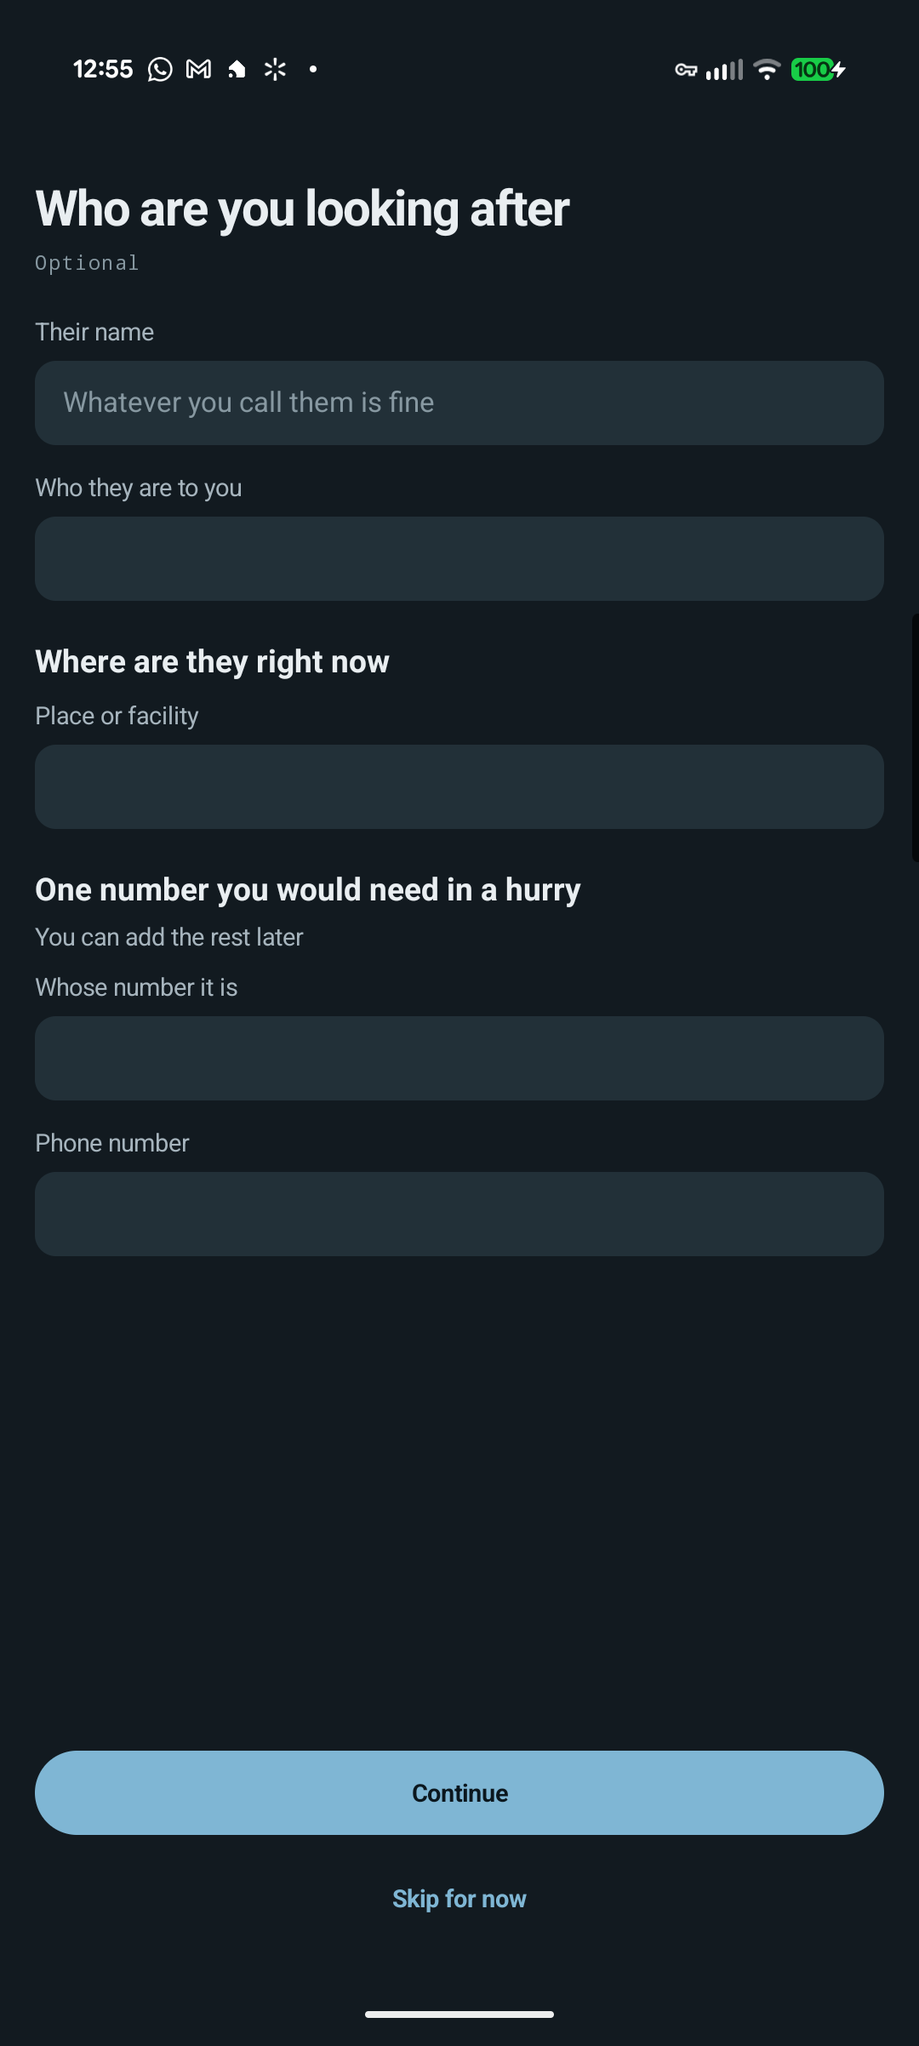
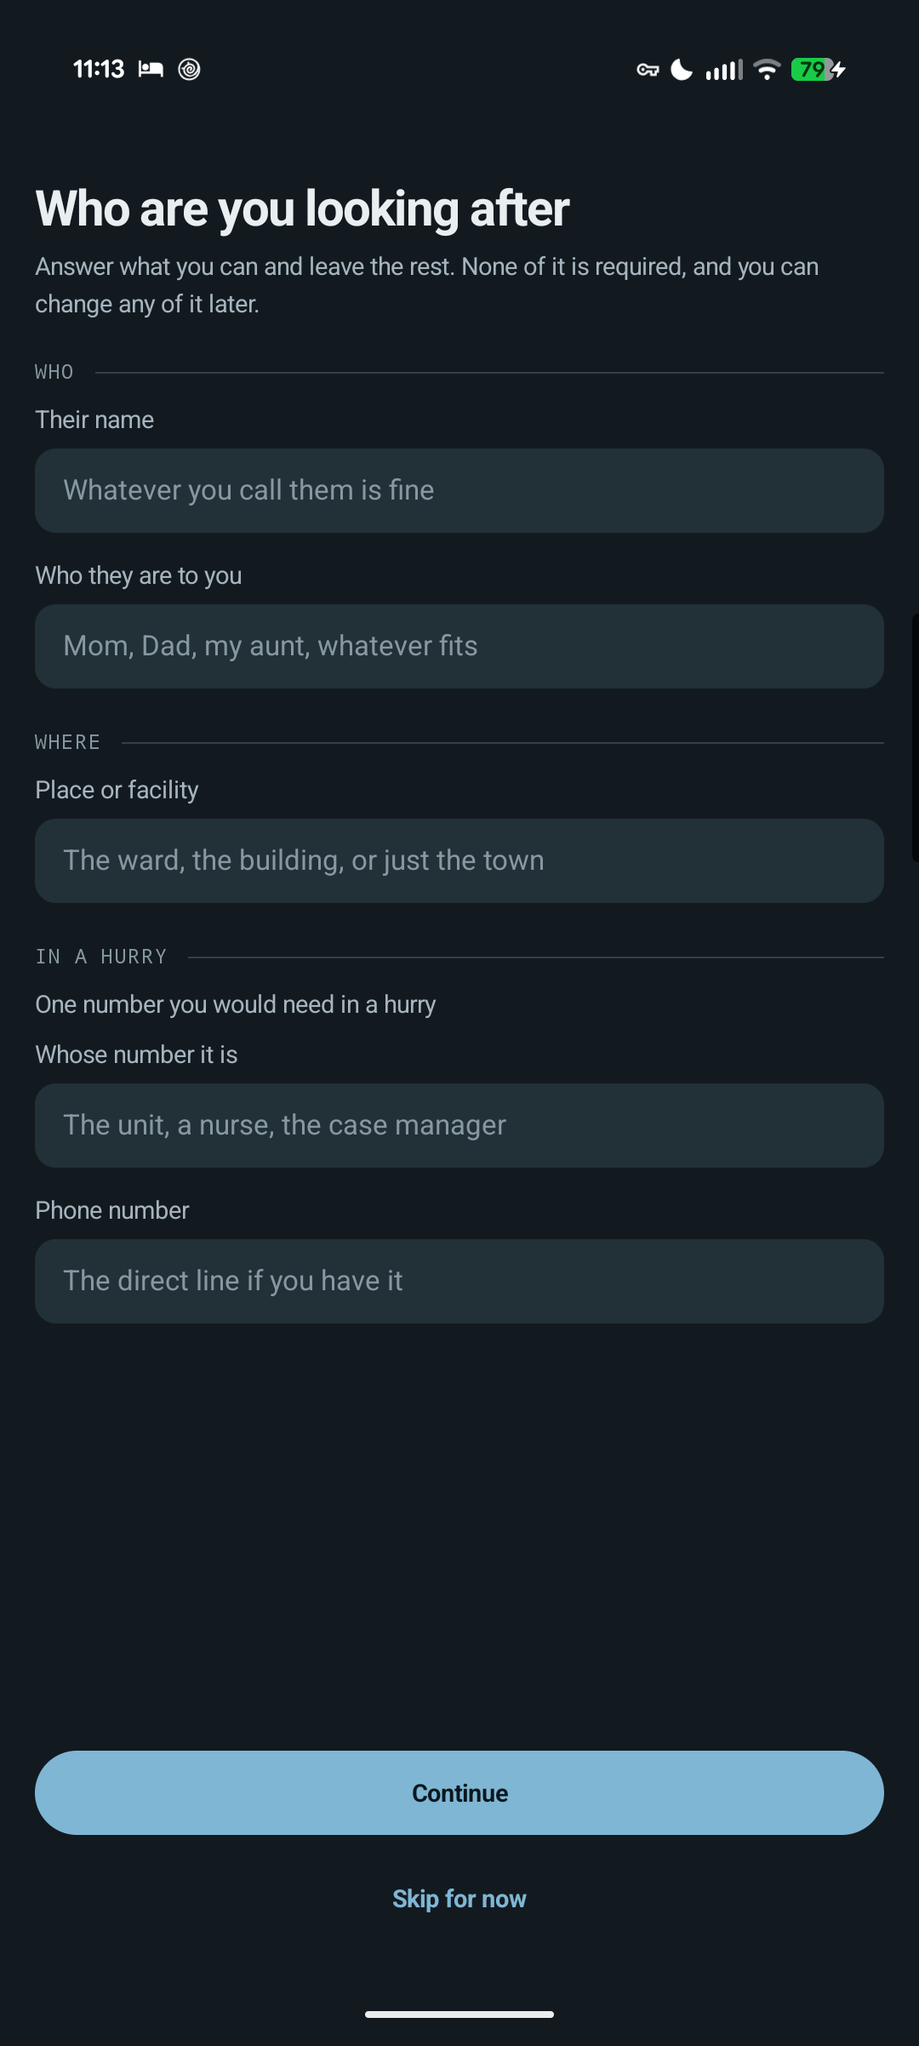
The setup screen stops reading as paperwork
Issue #37, the last of the four screens the owner named as visually thin.

Five labeled boxes in a row, four of them empty and unhinted, under a mono
"Optional". It worked, and it read as a form being administered, on the
screen that decides whether someone in a hallway keeps going.

The reassurance is now one warm sentence rather than one word: answer what
you can and leave the rest, none of it is required, and you can change any of
it later. That also carries what the label could not, which is that nothing
here is permanent.

Three groups under the same header the notebook and the picker use, so a
person arriving from the disclaimer meets one app rather than three.

Every field carries a hint that is guidance rather than a repeat of its
label. D37 records that this did more than the grouping did: "Who they are to
you" over an empty box is an interrogation, and "Mom, Dad, my aunt, whatever
fits" inside it is a person talking. Section 5.9 already required it and the
screen shipped without it, which is an argument for running the 10.6
checklist rather than remembering it.

Two defects found only with the keyboard up, D38: the Continue button sat on
top of the last field, and the field was sliced through the middle of its
box. Both looked correct at rest, in a screenshot, and in the code. Section
10.6 line 1 now names the keyboard state, because it is where the person
actually spends their time and nothing else here tests it.
[…]

diff --git a/android/app/src/main/kotlin/com/kamsiob/healthtrail/ui/screens/SetupScreen.kt b/android/app/src/main/kotlin/com/kamsiob/healthtrail/ui/screens/SetupScreen.kt
@@ -23,6 +23,7 @@ import androidx.compose.ui.text.input.ImeAction
 import androidx.compose.ui.text.input.KeyboardType
 import com.kamsiob.healthtrail.i18n.LocalStrings
 import com.kamsiob.healthtrail.ui.components.FilledButton
+import com.kamsiob.healthtrail.ui.components.GroupHeader
 import com.kamsiob.healthtrail.ui.components.HealthTrailTextField
 import com.kamsiob.healthtrail.ui.components.TextAction
 import com.kamsiob.healthtrail.ui.theme.HealthTrail
@@ -33,6 +34,7 @@ object SetupTags {
     const val NAME = "setup_name"
     const val WHERE = "setup_where"
     const val PHONE = "setup_phone"
+    const val REASSURE = "setup_reassure"
     const val CONTINUE = "setup_continue"
     const val SKIP = "setup_skip"
 }
@@ -65,10 +67,22 @@ data class SetupAnswers(
  * One short scrolling screen shows the whole ask at once, which is what makes it
  * possible to see that it is nearly nothing.
  *
- * **The word Optional appears once,** at the top, rather than beside each field.
- * Repeating it on every field turns a reassurance into noise.
+ * **The reassurance is one warm sentence at the top**, rather than the word
+ * Optional beside each field. Repeating it on every field turns a reassurance
+ * into noise, and the word on its own was the vocabulary of a form being
+ * administered. The sentence also carries the other half a label could not:
+ * that nothing here is permanent.
  *
- * **Section headings and field labels are never the same words.** Built with
+ * **The three things are grouped and headed.** Five labeled boxes in a row read
+ * as a form. Three short groups read as three questions, which is what this
+ * actually is, and it is the same group header the notebook and the situation
+ * picker use, so a person arriving from the disclaimer meets one app.
+ *
+ * **Every field carries a hint that is genuine guidance**, per section 5.9, not
+ * a repeat of its label. Four of the five were bare gray boxes, which is the
+ * thing that made the screen feel like paperwork more than anything else on it.
+ *
+ * **Group headings and field labels are never the same words.** Built with
  * them shared, the screen showed "Where are they right now" twice in a row, once
  * as a heading and once as the label beneath it. It read as a bug, and a screen
  * reader announced it twice. Found by looking at the built screen on a device.
@@ -103,6 +117,10 @@ fun SetupScreen(
                 .imePadding()
                 .padding(horizontal = Space.screenHorizontal, vertical = Space.l),
         ) {
+            // The questions scroll and the actions do not, which is what keeps
+            // Continue in the lower half where a thumb reaches it on a large
+            // phone, per section 9, whatever the font size or translation
+            // length does to the questions above it.
             Column(
                 modifier = Modifier
                     .weight(1f)
@@ -116,13 +134,25 @@ fun SetupScreen(
 
                 Spacer(Modifier.height(Space.s))
 
+                // **The reassurance, in words, once.** This replaced a mono
+                // "Optional" that sat directly under the title. The word is
+                // accurate and it is the vocabulary of a form being
+                // administered, which is the last thing this screen should be
+                // in front of someone in a corridor. It also does the second
+                // job the old label could not: saying plainly that nothing here
+                // is permanent.
                 Text(
-                    text = strings["entry.optional"],
-                    style = HealthTrail.type.mono,
-                    color = colors.ink3Text,
+                    text = strings["setup.reassure"],
+                    style = HealthTrail.type.bodyM,
+                    color = colors.ink2,
+                    modifier = Modifier.testTag(SetupTags.REASSURE),
                 )
 
                 Spacer(Modifier.height(Space.l))
+
+                GroupHeader("setup.group.who")
+
+                Spacer(Modifier.height(Space.headerGap))
 
                 HealthTrailTextField(
                     label = strings["setup.name.label"],
@@ -136,22 +166,20 @@ fun SetupScreen(
 
                 HealthTrailTextField(
                     label = strings["setup.relationship.label"],
+                    hint = strings["setup.relationship.hint"],
                     value = relationship,
                     onValueChange = { relationship = it },
                 )
 
                 Spacer(Modifier.height(Space.sectionGap))
 
-                Text(
-                    text = strings["setup.where.title"],
-                    style = HealthTrail.type.displayS,
-                    color = colors.ink,
-                )
+                GroupHeader("setup.group.where")
 
-                Spacer(Modifier.height(Space.sm))
+                Spacer(Modifier.height(Space.headerGap))
 
                 HealthTrailTextField(
                     label = strings["setup.where.label"],
+                    hint = strings["setup.where.hint"],
                     value = where,
                     onValueChange = { where = it },
                     fieldTestTag = SetupTags.WHERE,
@@ -159,24 +187,13 @@ fun SetupScreen(
 
                 Spacer(Modifier.height(Space.sectionGap))
 
-                Text(
-                    text = strings["setup.phone.title"],
-                    style = HealthTrail.type.displayS,
-                    color = colors.ink,
-                )
+                GroupHeader("setup.group.reach")
 
-                Spacer(Modifier.height(Space.s))
-
-                Text(
-                    text = strings["setup.phone.hint"],
-                    style = HealthTrail.type.bodyM,
-                    color = colors.ink2,
-                )
-
-                Spacer(Modifier.height(Space.sm))
+                Spacer(Modifier.height(Space.headerGap))
 
                 HealthTrailTextField(
                     label = strings["setup.phone.person.label"],
+                    hint = strings["setup.phone.person.hint"],
                     value = phoneName,
                     onValueChange = { phoneName = it },
                 )
@@ -185,6 +202,7 @@ fun SetupScreen(
 
                 HealthTrailTextField(
                     label = strings["setup.phone.number.label"],
+                    hint = strings["setup.phone.number.hint"],
                     value = phoneNumber,
                     onValueChange = { phoneNumber = it },
                     keyboardType = KeyboardType.Phone,
@@ -194,6 +212,14 @@ fun SetupScreen(
 
                 Spacer(Modifier.height(Space.l))
             }
+
+            // **A real gap between the last question and the action.** With
+            // the keyboard up the scrolling area shrinks until the field at its
+            // edge sits directly against the button, and on the phone that read
+            // as the button overlapping the field rather than as content
+            // scrolling behind it. Invisible in the resting screenshot and
+            // obvious in a hand, which is why section 10.6 line 1 exists.
+            Spacer(Modifier.height(Space.m))
 
             FilledButton(
                 label = strings["setup.continue"],

diff --git a/android/app/src/androidTest/kotlin/com/kamsiob/healthtrail/ui/SetupFlowTest.kt b/android/app/src/androidTest/kotlin/com/kamsiob/healthtrail/ui/SetupFlowTest.kt
@@ -1,6 +1,8 @@
 package com.kamsiob.healthtrail.ui
 
+import androidx.compose.ui.test.assertIsDisplayed
 import androidx.compose.ui.test.junit4.createComposeRule
+import androidx.compose.ui.test.onAllNodesWithText
 import androidx.compose.ui.test.onNodeWithTag
 import androidx.compose.ui.test.performClick
 import androidx.compose.ui.test.performTextInput
@@ -55,6 +57,66 @@ class SetupFlowTest {
                 }
             }
         }
+    }
+
+    @Test
+    fun theScreenSaysNoneOfItIsRequiredWithoutRepeatingItPerField() {
+        // Said once, in words, at the top. The screen used to carry a mono
+        // "Optional" here, which is accurate and is the vocabulary of a form
+        // being administered, on the first real screen after the disclaimer.
+        showSetup(onContinue = {})
+        compose.onNodeWithTag(SetupTags.REASSURE).assertIsDisplayed()
+
+        val strings = Strings.load(context)
+        val reassurance = strings["setup.reassure"]
+        // One reassurance on the screen, not five.
+        assertEquals(
+            "the reassurance is repeated",
+            1,
+            compose.onAllNodesWithText(reassurance).fetchSemanticsNodes().size,
+        )
+    }
+
+    @Test
+    fun everyFieldCarriesGuidanceRatherThanAnEmptyBox() {
+        // Four of the five were bare gray boxes with a label above them, which
+        // is what made this read as paperwork more than anything else on it.
+        // Section 5.9: a hint is genuine guidance, never a repeat of the label.
+        showSetup(onContinue = {})
+        val strings = Strings.load(context)
+        listOf(
+            "setup.name.hint",
+            "setup.relationship.hint",
+            "setup.where.hint",
+            "setup.phone.person.hint",
+            "setup.phone.number.hint",
+        ).forEach { key ->
+            val hint = strings[key]
+            assertTrue(
+                "the hint for $key is missing from the screen",
+                compose.onAllNodesWithText(hint).fetchSemanticsNodes().isNotEmpty(),
+            )
+        }
+    }
+
+    @Test
+    fun noGroupHeadingRepeatsAFieldLabel() {
+        // Built with them shared, the screen showed the same sentence twice in
+        // a row and a screen reader announced it twice. Asserted rather than
+        // remembered, because the next person editing the copy will not know.
+        val strings = Strings.load(context)
+        val headings = listOf("setup.group.who", "setup.group.where", "setup.group.reach")
+            .map { strings[it].lowercase() }
+        val labels = listOf(
+            "setup.name.label",
+            "setup.relationship.label",
+            "setup.where.label",
+            "setup.phone.person.label",
+            "setup.phone.number.label",
+        ).map { strings[it].lowercase() }
+
+        val clashes = headings.filter { it in labels }
+        assertTrue("a group heading repeats a field label: $clashes", clashes.isEmpty())
     }
 
     @Test

diff --git a/DESIGN.md b/DESIGN.md
@@ -480,11 +480,23 @@ Tracked on issue #28.
 
 Every field is optional, including the name, and continuing with all of them blank is a real path that produces a working notebook. There is no required field marker, no validation, no error state, and no progress indicator, because a progress indicator on setup frames an unfinished form as a deficiency.
 
-One screen rather than a three step wizard. A wizard means three taps before anything is written down and hides how little is being asked. One short scrolling screen shows the whole ask at once, which is what makes it possible to see that it is nearly nothing. The word Optional appears once at the top rather than beside each field.
+One screen rather than a three step wizard. A wizard means three taps before anything is written down and hides how little is being asked. One short scrolling screen shows the whole ask at once, which is what makes it possible to see that it is nearly nothing.
 
-**Section headings and field labels are never the same words.** Built with them shared, the screen showed "Where are they right now" twice in a row, once as a heading and once as the label beneath it. It read as a bug and a screen reader announced it twice.
+**Rebuilt on 2026-08-01 under the standard in section 10.5.** The first version was five labeled boxes in a row, four of them empty and unhinted, under a mono "Optional". It worked and it read as paperwork, on the screen that decides whether someone in a hallway keeps going.
 
-Composed from Display L, Display S, Body M, the text field from section 5.9, one filled button, and one text action. Tracked on issue #30.
+**The reassurance is one warm sentence, once.** "Answer what you can and leave the rest. None of it is required, and you can change any of it later." It replaced the word Optional, which is accurate and is the vocabulary of a form being administered, and it carries the second half a label could not: that nothing here is permanent.
+
+**Three groups, headed with the group header from 5.13**, the same one the notebook and the situation picker use, so a person arriving from the disclaimer meets one app rather than three. Who, where, in a hurry.
+
+**Every field carries a hint that is genuine guidance**, per 5.9, never a repeat of the label. "Mom, Dad, my aunt, whatever fits" is a hint. "Who they are to you" is a label. That single change did more for how this screen feels than the grouping did.
+
+**Group headings and field labels are never the same words.** Built with them shared, the screen showed the same sentence twice in a row and a screen reader announced it twice. `SetupFlowTest` asserts it now, because the next person editing the copy will not know.
+
+**The questions scroll and the actions do not**, which keeps Continue in the lower half where a thumb reaches it, per section 9, whatever the font size or translation length does to the questions above. There is a real gap between the last question and the button: with the keyboard up the scrolling area shrinks until the field at its edge sits against the button, and on the phone that read as an overlap rather than as content scrolling behind. Invisible in a resting screenshot and obvious in a hand.
+
+Skipping sits below Continue at equal reach with no styling that makes it feel like giving up.
+
+Composed from Display L, Body M, the group header from 5.13, the text field from 5.9, the press state from 5.14, one filled button, and one text action. Tracked on issues #30 and #37.
 
 **The situation picker.** Fourteen care settings, grouped by where the care is happening, each carrying its name and the subtitle that tells two similar settings apart.
 
@@ -619,6 +631,8 @@ Done means it looks and reads like the rest of the app, it has been looked at on
 Checked rather than remembered, in this order. A screen closes only after every line is true.
 
 1. **Built, installed to the phone over ADB, opened, and looked at on the real device.** Not a preview, not the layout inspector, the actual screen in a hand. Two real bugs in one increment were invisible in review and obvious on the device, recorded as D28.
+
+   **With the keyboard up, on any screen carrying a text field.** That is the state the person actually spends their time in, and nothing else in this project tests it. Two more defects were found that way and only that way, recorded as D38: an action button sitting on top of the last field, and the field sliced through the middle of its box at the scroll boundary. Both looked correct at rest.
 2. **It uses the components the design language already has,** and introduced nothing new. If something new was genuinely unavoidable, it is specified in section 5 first, with its states.
 3. **Hierarchy is visible at a glance.** A person can tell what matters without reading every word.
 4. **It holds up with real content,** not only with tidy sample data. Long names, empty sections, one item, many items, a note nobody bothered to punctuate.

diff --git a/HANDOFF.md b/HANDOFF.md
@@ -4,7 +4,7 @@
 
 If you are a session with no memory, this file plus `git log` and the issue tracker is everything you need. Read this in full, then `CLAUDE.md`, then continue only from what the repository says is true.
 
-**Last rewritten:** 2026-08-01, on the branch `feat/38-edtf-dates`, in the session where the owner sent the standing quality bar.
+**Last rewritten:** 2026-08-01, on the branch `feat/37-setup-screen`, in the session where the owner sent the standing quality bar.
 
 If you find yourself re-reading files you already read this session, compaction has happened. Stop, read this file again, and re-orient before continuing.
 
@@ -64,9 +64,10 @@ Verified means checked through the mechanism, not inferred from the code being w
 | Content compliance | `check_copy.py`, `check_templates.py`, `check_contract_isolation.py`, `check_self_contained.py` |
 | Every screen built so far | Instrumented, plus built, installed, opened, and looked at on the Pixel |
 | The notebook's fold behavior | Walked on the Pixel with a hospital stay template: appointments, the trail, documents, and standing instructions forward, money and progress collapsed, which is exactly what that template names |
+| Every screen looked at with the keyboard up | Two defects found that way and nowhere else: the setup button colliding with the last field, and the field clipped mid-box at the scroll boundary |
 | The press state, everywhere | Measured on the device on three different surfaces: a card row (26,36,43) to (43,50,56), the filled button (127,182,212) to (136,186,214), the capture button (227,177,85) to (228,182,100). `FilledButton` and `TextAction` previously had no press state at all |
 
-**The whole instrumented suite: 67 tests, 0 failures**, run on the connected Pixel 10 Pro XL. All seven implemented compliance checks pass. JVM unit tests pass.
+**The whole instrumented suite: 70 tests, 0 failures**, run on the connected Pixel 10 Pro XL. All seven implemented compliance checks pass. JVM unit tests pass.
 
 ---
 
@@ -92,7 +93,7 @@ Verified means checked through the mechanism, not inferred from the code being w
 
 | Issue | What |
 |---|---|
-| #37 | Rebuild the essentials first setup screen to the section 10.6 bar |
+| ~~#37~~ | **Done.** Grouped, hinted, and the reassurance said once in words |
 
 **Phase 0, still open.**
 
@@ -174,7 +175,7 @@ Every screen built without one is composed from existing components under `DESIG
 | Screen | Built | Issue | Reviewed |
 |---|---|---|---|
 | Disclaimer gate | 2026-07-31, rebuilt same day to the 10.6 bar | #28 | not yet |
-| Essentials first setup | 2026-07-31 | #30 | not yet, **and it does not meet the 10.6 bar. Issue #37** |
+| Essentials first setup | 2026-07-31, rebuilt 2026-08-01 to the 10.6 bar | #30 | not yet |
 | Situation picker | 2026-07-31, rebuilt 2026-08-01 to the 10.6 bar | #32 | not yet |
 | Capture form, four kinds | 2026-07-31, rebuilt same day to screen 26 | #34 | not yet |
 | Notebook table of contents | 2026-08-01, rebuilt to the 10.6 bar | #36 | not yet |

diff --git a/DECISIONS.md b/DECISIONS.md
@@ -572,9 +572,25 @@ Grouping the fourteen settings needed a group per template. It could have been a
 
 **A setting whose group this version does not recognize still renders**, under no heading, and a test fails loudly when one appears. Both halves matter: a person must never fail to find their own situation because of a data edit, and a stray must never look deliberate.
 
----
+### D37. A hint is worth more than a heading
 
-## BLOCKED
+**Date:** 2026-08-01. **Decided by:** the session, building issue #37.
+
+The setup screen was rebuilt with three things: a warm reassurance replacing a mono "Optional", group headers, and a hint on every field. Looked at on the phone, **the hints did most of the work and the grouping did the least.**
+
+Worth recording because the instinct on a thin screen is to add structure, and structure was not what was missing. Four of the five fields were empty gray boxes with a label above them. "Who they are to you" over an empty box is an interrogation. "Mom, Dad, my aunt, whatever fits" inside it is a person talking. The grouping made the screen scannable; the hints made it kind.
+
+**The general rule, since it will recur:** when a screen reads as paperwork, look at what the empty state of each control says before reaching for headings. `DESIGN.md` section 5.9 already required this and the screen shipped without it, which means the checklist in 10.6 needs to be run rather than remembered.
+
+### D38. Two defects found only with the keyboard up
+
+**Date:** 2026-08-01. **Decided by:** the session, building issue #37.
+
+The resting screenshot of the setup screen looked correct. With the keyboard open, the Continue button sat on top of the last field, and the field was sliced through the middle of its box.
+
+Neither was visible in the layout at rest, in a screenshot, or in the code. Both were obvious within a second of opening the keyboard on the phone.
+
+**Recorded as a checklist item rather than as a bug:** a screen with any text field is looked at with the keyboard up before its issue closes. That is the state the person actually spends their time in, and it is not the state anything else in this project tests. It joins section 10.6 line 1, which already said the real device and now says which states on it.
 Anything only the owner can resolve. Each entry states exactly what he needs to do, in terms he can act on without reading any code.
 
 **Nothing is blocked as of 2026-07-31.** All four entries that ever appeared here are resolved and are kept below with their outcomes rather than deleted, because a BLOCKED section that only ever grows teaches a reader that nothing here gets fixed. A fresh session reading this needs nothing from the owner in order to continue.
